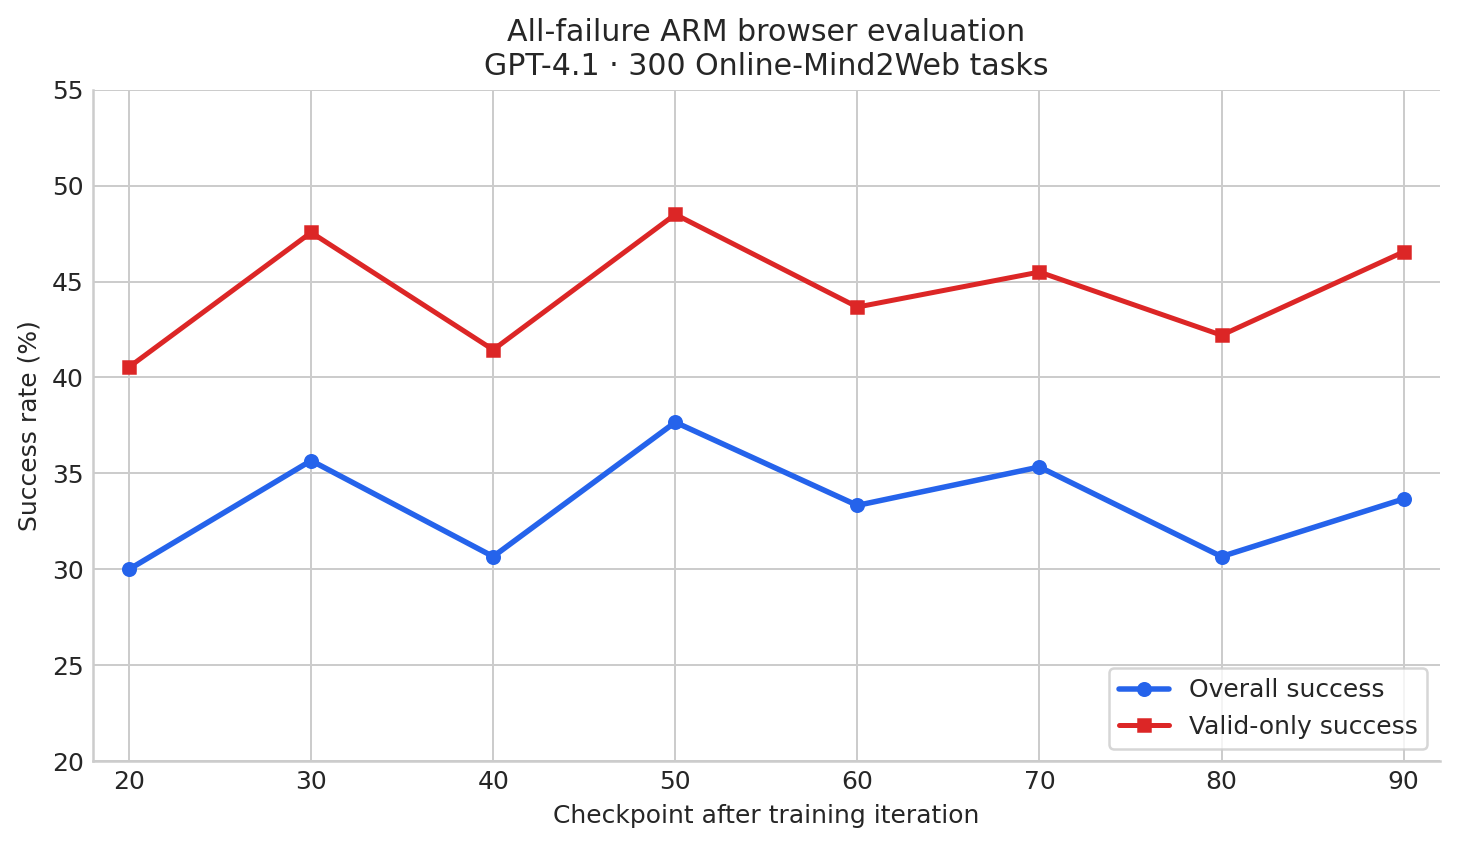
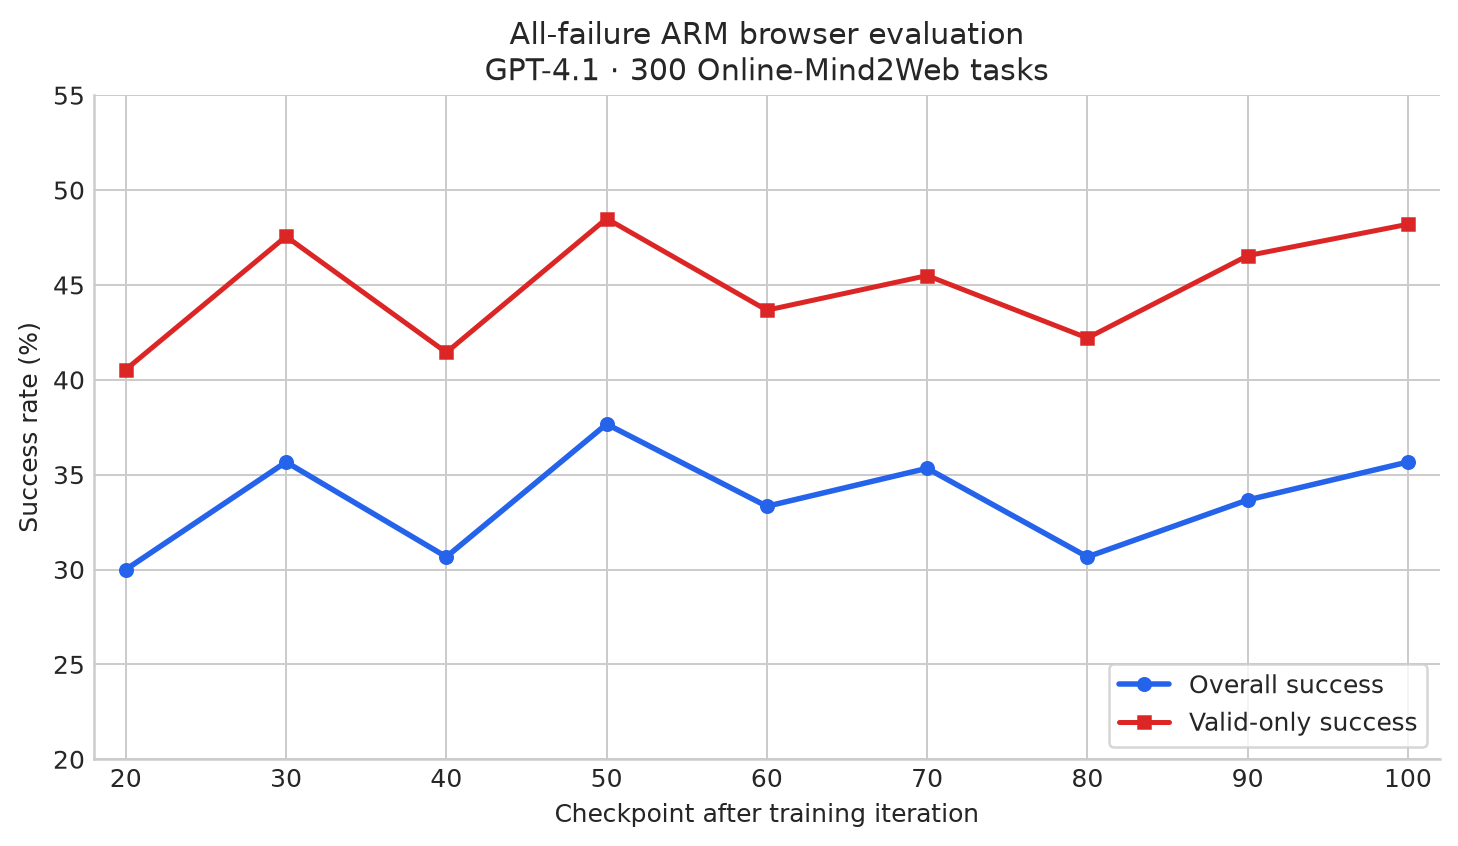
Record all-failure100 evaluation, refresh curves and clarify ARM ablations

diff --git a/scripts/plot_arm_allfailure.py b/scripts/plot_arm_allfailure.py
@@ -2,12 +2,12 @@ from pathlib import Path
 import matplotlib
 matplotlib.use('Agg')
 import matplotlib.pyplot as plt
-iterations=[20,30,40,50,60,70]
-successes=[90,107,92,113,100,106]
-valid=[222,225,222,233,229,233]
+iterations=[20,30,40,50,60,70,80,90,100]
+successes=[90,107,92,113,100,106,92,101,107]
+valid=[222,225,222,233,229,233,218,217,222]
 overall=[100*s/300 for s in successes]
 valid_only=[100*s/v for s,v in zip(successes,valid)]
-repo=Path('/gpfs/projects/krishna/zixianma/OpenWebRL')
+repo=Path(__file__).resolve().parents[1]
 out=repo/'openwebrl/docs/rl_results/arm_allfailure_full300.png'
 plt.style.use('seaborn-v0_8-whitegrid')
 fig,ax=plt.subplots(figsize=(8.2,4.8),dpi=180)
@@ -16,6 +16,6 @@ ax.plot(iterations,valid_only,marker='s',linewidth=2.0,markersize=4.5,color='#dc
 ax.set_xlabel('Checkpoint after training iteration')
 ax.set_ylabel('Success rate (%)')
 ax.set_title('All-failure ARM browser evaluation\nGPT-4.1 · 300 Online-Mind2Web tasks')
-ax.set_ylim(20,55); ax.set_xlim(18,72); ax.set_xticks([20,30,40,50,60,70])
+ax.set_ylim(20,55); ax.set_xlim(18,102); ax.set_xticks(iterations)
 ax.legend(frameon=True,loc='lower right'); ax.spines['top'].set_visible(False); ax.spines['right'].set_visible(False)
-fig.tight_layout(); fig.savefig(out,bbox_inches='tight'); print(out)
+fig.tight_layout(); out.parent.mkdir(parents=True,exist_ok=True); fig.savefig(out,bbox_inches='tight'); print(out)

diff --git a/scripts/plot_baseline_vs_arm_allfailure.py b/scripts/plot_baseline_vs_arm_allfailure.py
@@ -10,9 +10,9 @@ baseline_v=[232,248,231,234,230,229,229,222]
 arm_i=[20,30,40,50,60]
 arm_s=[90,107,92,113,100]
 arm_v=[222,225,222,233,229]
-arm_i += [70,80,90]
-arm_s += [106,92,101]
-arm_v += [233,218,217]
+arm_i += [70,80,90,100]
+arm_s += [106,92,101,107]
+arm_v += [233,218,217,222]
 add_i=[20,30,40,50,60,70,80,90,100]
 add_s=[85,103,102,98,90,112,111,118,109]
 add_v=[236,219,218,212,215,222,212,216,217]

diff --git a/openwebrl/docs/ARM_INTEGRATION_PLAN.md b/openwebrl/docs/ARM_INTEGRATION_PLAN.md
@@ -3917,6 +3917,37 @@ training resources still need an exact budget approval.
 Continuing C remains a separate recommendation. Evaluation/deployment remains
 one actor, with no inference-time selector.
 
+### Status after the coverage pilot and iteration100 evaluation
+
+The fixed100 execution audit is complete; it found descriptive actor+ARM gains,
+but historical actor-only controls differ in date/availability and decoding.
+The late actor's valid-only gain is only1.62pp; this does not establish that
+stronger ARM training rewards will help. The coverage pilot315204 completed
+with zero valid five-failure groups, so the four-turn treatment never received
+an eligible pool. Neither coverage-treatment training nor beta1 training has
+launched. B/C continuations are separate gate/credit experiments, keeping
+beta0.5 and nominal sampling0.20.
+
+Keep the two proposed ablations separate. First inspect saved training
+termination reasons to explain the empty pool; 38 truncated and18 aborted
+trajectories appeared among110 trajectories in the22 all-zero groups. Do not
+relax technical-validity checks silently. Test deferred labeling on a nonempty
+valid pool before a long coverage run. The beta-only loss path is CPU-tested;
+a GPU training smoke check and concrete allocation budget remain outstanding.
+
+Four-turn coverage is not a global change from q0.20 to q0.40: it labels
+min(4,T) uniformly selected valid turns per eligible failed trajectory while
+ordinary mixed-group sampling stays0.20. For T=15, expected selected turns
+change3→4; for T=5,1→4. Candidate gates can still reject the selected turns.
+Changing failure-group admission as described below is also part of this
+coverage recipe, so it is not an isolated sampling-probability comparison.
+
+For a later controlled continuation, branch control, beta-only, and (after its
+nonempty pilot passes) coverage-only from additive100 with the same optimizer
+state. Run20 further collections and evaluate each endpoint identically.
+Additive100 is now36.33%/50.23%; all-failure100 is35.67%/48.20%. Baseline100
+is still pending. These endpoints do not yet show a matched outcome-only gain.
+
 ### What supports this direction
 
 Additive90 is **39.33% overall / 54.63% valid-only**, versus the historical

diff --git a/openwebrl/docs/RL_EVALUATION.md b/openwebrl/docs/RL_EVALUATION.md
@@ -1747,3 +1747,25 @@ has trained to100 but has no iteration100 evaluation yet.
 [Audited aggregate](arm_results/rl_integration/additive-iteration100-audit.json) ·
 [W&B](https://wandb.ai/zixianma/openwebrl-evals/runs/qcq7i4ug-eval-after100-313669) ·
 [Saved rollouts and verdicts](/gpfs/scrubbed/zixianma/openwebrl-runtime/evaluations/arm-additive-iter100-313669/rollouts).
+
+<a id="arm-allfailure-iter100-results-20260921"></a>
+### All-failure iteration100 — completed September 21
+
+Job **316392** completed in **30m58s** on two H200s, releasing the one-hour
+allocation early. The checkpoint is `iter_0000099` from all-failure309490,
+**100 completed collections / 1,242 Adam updates**. Full300: **107 successes,
+222 valid, 78 invalid; 35.67% overall / 48.20% valid-only**. The frozen fixed100
+slice has **26 successes / 66 valid / 34 invalid**, or **26.00% / 39.39%**.
+
+The 300 unique task IDs match the frozen cohort; every task has a nonempty
+rollout archive and verdict sidecar, with no persistence errors. Per-task sums
+match native task metrics; GPU restoration evidence confirms checkpoint99.
+Protocol: local browser, GPT-4.1/action_history, temperature0, same full300
+monitor as other RL endpoints. [Machine-readable audit](arm_results/rl_integration/allfailure-iteration100-audit.json).
+
+Compared with all-failure90, overall increases **2.00 pp** and valid-only
+**1.65 pp**. Additive100 is **36.33% / 50.23%**, higher by **0.67 / 2.03 pp**.
+These are descriptive comparisons across different-date rollouts and valid
+sets, not evidence of significance. Baseline100 is still pending, so no matched
+iteration100 outcome-only comparison is available. All archives are under
+`evaluations/arm-allfailure-iter100-316392/rollouts/`; training was not updated.

diff --git a/openwebrl/docs/RL_RESULTS.md b/openwebrl/docs/RL_RESULTS.md
@@ -128,6 +128,7 @@
 | Outcome-only · historical | 90 | 101 | 222 | 78 | 33.67 | 45.50 | [Baseline](RL_EVALUATION.md#arm-iter90-results-20260921) |
 | All-failure bonus | 90 | 101 | 217 | 83 | 33.67 | 46.54 | [313188](RL_EVALUATION.md#arm-iter90-results-20260921) |
 | Additive bonus | 90 | 118 | 216 | 84 | 39.33 | 54.63 | [313408](RL_EVALUATION.md#arm-iter90-results-20260921) |
+| All-failure bonus | 100 | 107 | 222 | 78 | 35.67 | 48.20 | [316392](RL_EVALUATION.md#arm-allfailure-iter100-results-20260921) |
 | Additive bonus | 100 | 109 | 217 | 83 | 36.33 | 50.23 | [313669](RL_EVALUATION.md#arm-additive-iter100-results-20260921) |
 
 ## SelectionARM inference · fixed100 · historical actor-only controls
@@ -143,3 +144,4 @@
 | B: relaxed gate | 20 | 29 | 69 | 31 | 29.00 | 42.03 | [313209](RL_EVALUATION.md#arm-gate-b-iter20-results-20260921) |
 | C: relaxed gate + action credit | 20 | 38 | 79 | 21 | 38.00 | 48.10 | [313211](RL_EVALUATION.md#arm-gate-c-iter20-results-20260921) |
 | Additive bonus | 100 | 31 | 65 | 35 | 31.00 | 47.69 | [313669, slice of full300](RL_EVALUATION.md#arm-additive-iter100-results-20260921) |
+| All-failure bonus | 100 | 26 | 66 | 34 | 26.00 | 39.39 | [316392, slice of full300](RL_EVALUATION.md#arm-allfailure-iter100-results-20260921) |

diff --git a/openwebrl/docs/ARM_SUMMARY.md b/openwebrl/docs/ARM_SUMMARY.md
@@ -217,6 +217,7 @@ candidates.
 |  | 70 | — | 35.33% / 45.49% |
 |  | 80 | — | 30.67% / 42.20% |
 |  | 90 | — | **33.67% / 46.54%** |
+|  | 100 | 26.00% / 39.39% | **35.67% / 48.20%** |
 | **Additive bonus** | 20 | 24.0% / 31.17% | 28.33% / 36.02% |
 |  | 30 | 30.0% / 44.12% | 34.33% / 47.03% |
 |  | 40 | 30.0% / 44.12% | 34.00% / 46.79% |
@@ -249,8 +250,9 @@ paired significance claim. Additive subsequently completed **100 / 1,262**;
 its [iteration-100 evaluation](RL_EVALUATION.md#arm-additive-iter100-results-20260921)
 is **36.33% / 50.23%**, down 3.00 / 4.40 percentage points from iteration90.
 Baseline100 is still pending, so there is no matched iteration100 comparison yet.
-Original remains at **85 / 1,002**. All-failure100 full300 is queued as **316392**
-(2 H200 × 1h); [launch details](RL_RUNTIME.md#arm-allfailure100-eval-316392).
+Original remains at **85 / 1,002**. All-failure100 **316392** completed at
+**35.67% overall / 48.20% valid-only**, with all 300 rollouts/verdicts saved.
+[Result audit](RL_EVALUATION.md#arm-allfailure-iter100-results-20260921).
 
 ![All-failure ARM full-300 evaluation curve](rl_results/arm_allfailure_full300.png)
 

diff --git a/openwebrl/docs/README.md b/openwebrl/docs/README.md
@@ -33,7 +33,8 @@ Latest baseline: [iteration-90 completion](RL_EVALUATION.md#scheduled-eval90-res
 [iteration-80 GPT-4.1 rejudging](RL_EVALUATION.md#stealth80-gpt41-rejudge-feasibility-20260913),
 and [cluster/account queue audit](RL_RUNTIME.md#cluster-queue-audit-294983-20260913).
 
-ARM RL: [B/C20→60 eight-GPU launches and evaluation budget](RL_RUNTIME.md#arm-bc-to60-prepared-20260921),
+ARM RL: [all-failure100 results and updated curves](RL_EVALUATION.md#arm-allfailure-iter100-results-20260921),
+[B/C20→60 eight-GPU launches and evaluation budget](RL_RUNTIME.md#arm-bc-to60-prepared-20260921),
 [failure-coverage pilot: zero eligible groups](RL_RUNTIME.md#arm-failure-coverage-result-315204),
 [agreed failure-coverage and failure-weight experiments; CPU preparation](ARM_INTEGRATION_PLAN.md#arm-additive-next-experiments-20260921),
 [completed turn-bonus pilot](ARM_INTEGRATION_PLAN.md#arm-turn-bonus-pilot-completed),

diff --git a/openwebrl/docs/ARM_RESULTS.md b/openwebrl/docs/ARM_RESULTS.md
@@ -34,6 +34,10 @@ with all 300 rollouts and verdicts saved. This is below additive90 by 3.00 / 4.4
 percentage points. Baseline100 remains queued; no matched endpoint conclusion
 is available yet. [Current jobs and missing evaluations](RL_RUNTIME.md#arm-job-inventory-20260921).
 
+All-failure [iteration100](RL_EVALUATION.md#arm-allfailure-iter100-results-20260921)
+**316392** completed at **35.67% / 48.20%** (107 successes / 222 valid), with all
+300 rollouts and verdicts saved. Baseline100 remains pending.
+
 Latest Sol inference result (2026-09-13): **132/300 (44.0% overall; 51.56%
 valid-only)**, versus historical SelectionARM **128/300 (42.67%; 50.0%)**.
 The common-valid paired difference is not significant (p=0.4426); these were

diff --git a/openwebrl/docs/RL_RUNTIME.md b/openwebrl/docs/RL_RUNTIME.md
@@ -3227,3 +3227,7 @@ Approval, checkpoint plan and submission receipts:
 The persistent CPU supervisor includes316392, with one-minute status checks
 and 15-minute detailed checks. Original iteration60 remains a separate,
 unsubmitted backfill; this approval covers only all-failure100.
+
+September 21 completion update: **316392 finished in30m58s**, exit0, and released
+its GPUs. All300 verdicts and rollout archives passed cohort/completeness checks;
+**35.67% overall / 48.20% valid-only**. [Result audit](RL_EVALUATION.md#arm-allfailure-iter100-results-20260921).
